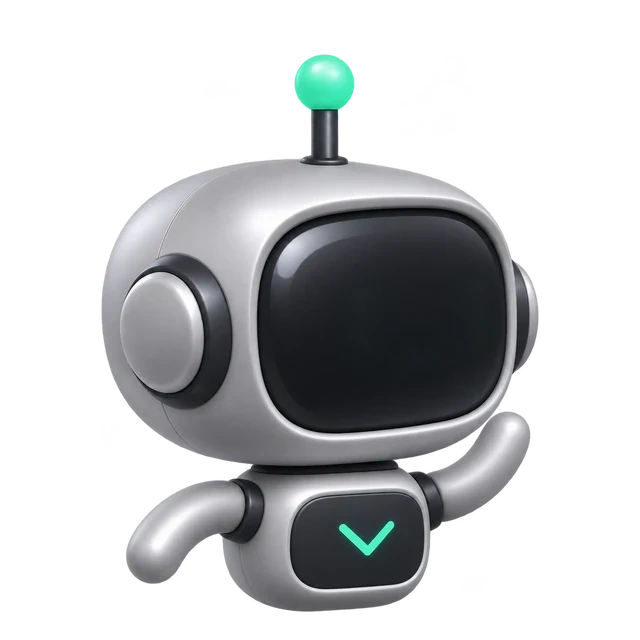
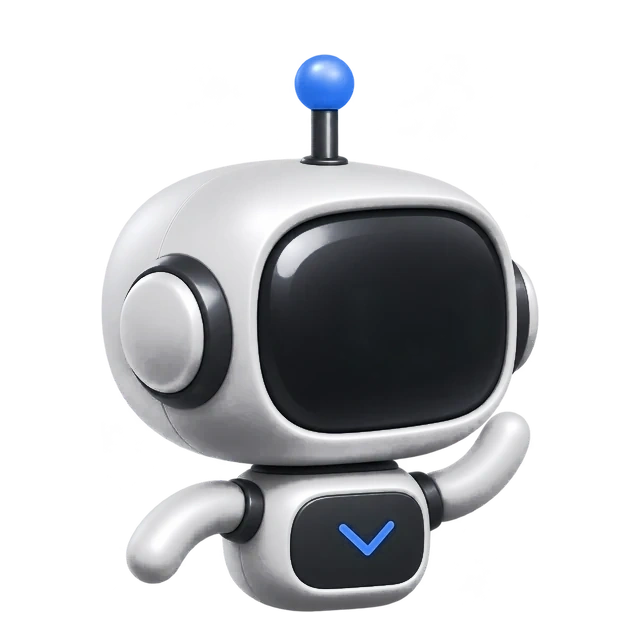
feat(web): add VIP workspace hover menu, draggable tabs, and blue-white xiaoxu mascot (#24)

diff --git a/apps/web/src/vip-workspace-tabs.tsx b/apps/web/src/vip-workspace-tabs.tsx
@@ -1,6 +1,17 @@
-import { CloseOutlined } from "@ant-design/icons";
-import { useEffect, useMemo, useState } from "react";
+import {
+  ApiOutlined,
+  AppstoreOutlined,
+  ArrowLeftOutlined,
+  BarChartOutlined,
+  CloseOutlined,
+  DatabaseOutlined,
+  FundProjectionScreenOutlined,
+  InboxOutlined,
+} from "@ant-design/icons";
+import { Dropdown, type MenuProps } from "antd";
+import { type ReactNode, useEffect, useMemo, useState } from "react";
 import { Link, useLocation, useNavigate } from "react-router-dom";
+import { useCan } from "./shared";
 
 export interface VipWorkspaceTab {
   key: string;
@@ -11,13 +22,45 @@ export interface VipWorkspaceTab {
 const VIP_WORKSPACE_ROUTES: ReadonlyArray<{
   prefix: string;
   label: string;
+  permission: string;
+  icon: ReactNode;
 }> = [
-  { prefix: "/analytics/compass", label: "经营分析" },
-  { prefix: "/analytics/competitors", label: "竞品分析" },
-  { prefix: "/style-selections", label: "选款登记" },
-  { prefix: "/products", label: "商品档案" },
-  { prefix: "/operations/vip/inventory", label: "库存明细" },
-  { prefix: "/operations/vip/integration", label: "唯品会接入" },
+  {
+    prefix: "/analytics/compass",
+    label: "经营分析",
+    permission: "analytics.read",
+    icon: <BarChartOutlined />,
+  },
+  {
+    prefix: "/style-selections",
+    label: "选款登记",
+    permission: "selection.read",
+    icon: <DatabaseOutlined />,
+  },
+  {
+    prefix: "/products",
+    label: "商品档案",
+    permission: "product.read",
+    icon: <AppstoreOutlined />,
+  },
+  {
+    prefix: "/analytics/competitors",
+    label: "竞品分析",
+    permission: "analytics.read",
+    icon: <FundProjectionScreenOutlined />,
+  },
+  {
+    prefix: "/operations/vip/inventory",
+    label: "库存明细",
+    permission: "inventory.read",
+    icon: <InboxOutlined />,
+  },
+  {
+    prefix: "/operations/vip/integration",
+    label: "唯品会接入",
+    permission: "vip.settings",
+    icon: <ApiOutlined />,
+  },
 ];
 
 /** Resolve a pathname to its canonical VIP workspace tab metadata. */
@@ -122,25 +165,96 @@ export function useVipWorkspaceTabs(userId?: number | string) {
     }
   };
 
+  const reorderTabs = (fromKey: string, toKey: string) => {
+    if (fromKey === toKey) return;
+    setTabs((prev) => {
+      const fromIdx = prev.findIndex((tab) => tab.key === fromKey);
+      const toIdx = prev.findIndex((tab) => tab.key === toKey);
+      if (fromIdx === -1 || toIdx === -1 || fromIdx === toIdx) return prev;
+      const next = [...prev];
+      const [moved] = next.splice(fromIdx, 1);
+      next.splice(toIdx, 0, moved);
+      saveStoredTabs(storageKey, next);
+      return next;
+    });
+  };
+
   return {
     tabs,
     activeTabKey: activeRoute?.key,
     closeTab,
+    reorderTabs,
   };
+}
+
+/** Render the 唯品会工作区 link with a hover dropdown of permitted sub-module entries. */
+export function VipWorkspaceRootDropdown({
+  activeTabKey,
+}: {
+  activeTabKey?: string;
+}) {
+  const analytics = useCan("analytics.read");
+  const selection = useCan("selection.read");
+  const products = useCan("product.read");
+  const inventory = useCan("inventory.read");
+  const vipSettings = useCan("vip.settings");
+
+  const permissions: Record<string, boolean> = {
+    "analytics.read": analytics,
+    "selection.read": selection,
+    "product.read": products,
+    "inventory.read": inventory,
+    "vip.settings": vipSettings,
+  };
+
+  const menuItems: MenuProps["items"] = VIP_WORKSPACE_ROUTES.filter(
+    (route) => permissions[route.permission]
+  ).map((route) => ({
+    key: route.prefix,
+    icon: route.icon,
+    label: <Link to={route.prefix}>{route.label}</Link>,
+  }));
+
+  const rootLink = (
+    <Link to="/operations?platform=vip" className="vip-workspace-root-link">
+      <ArrowLeftOutlined /> 唯品会工作区
+    </Link>
+  );
+
+  if (!menuItems.length) return rootLink;
+
+  return (
+    <Dropdown
+      menu={{
+        items: menuItems,
+        selectedKeys: activeTabKey ? [activeTabKey] : [],
+      }}
+      trigger={["hover"]}
+      placement="bottomLeft"
+      overlayClassName="vip-workspace-root-dropdown"
+    >
+      {rootLink}
+    </Dropdown>
+  );
 }
 
 interface VipWorkspaceTabBarProps {
   tabs: VipWorkspaceTab[];
   activeTabKey?: string;
   onCloseTab: (key: string) => void;
+  onReorderTabs: (fromKey: string, toKey: string) => void;
 }
 
-/** Render switchable, closeable tabs for opened VIP workspace sub-pages. */
+/** Render switchable, closeable, drag-reorderable tabs for opened VIP workspace sub-pages. */
 export function VipWorkspaceTabBar({
   tabs,
   activeTabKey,
   onCloseTab,
+  onReorderTabs,
 }: VipWorkspaceTabBarProps) {
+  const [draggingKey, setDraggingKey] = useState<string | null>(null);
+  const [dragOverKey, setDragOverKey] = useState<string | null>(null);
+
   if (!tabs.length) return null;
 
   return (
@@ -151,13 +265,43 @@ export function VipWorkspaceTabBar({
     >
       {tabs.map((tab) => {
         const isActive = tab.key === activeTabKey;
+        const isDragging = tab.key === draggingKey;
+        const isDragOver = tab.key === dragOverKey && draggingKey !== tab.key;
         return (
           <div
             key={tab.key}
-            className={`vip-workspace-tab${isActive ? " is-active" : ""}`}
+            draggable
+            onDragStart={(e) => {
+              e.dataTransfer.effectAllowed = "move";
+              e.dataTransfer.setData("text/plain", tab.key);
+              setDraggingKey(tab.key);
+            }}
+            onDragOver={(e) => {
+              e.preventDefault();
+              e.dataTransfer.dropEffect = "move";
+              if (dragOverKey !== tab.key) setDragOverKey(tab.key);
+            }}
+            onDrop={(e) => {
+              e.preventDefault();
+              const fromKey =
+                draggingKey || e.dataTransfer.getData("text/plain");
+              if (fromKey && fromKey !== tab.key) {
+                onReorderTabs(fromKey, tab.key);
+              }
+              setDraggingKey(null);
+              setDragOverKey(null);
+            }}
+            onDragEnd={() => {
+              setDraggingKey(null);
+              setDragOverKey(null);
+            }}
+            className={`vip-workspace-tab${isActive ? " is-active" : ""}${
+              isDragging ? " is-dragging" : ""
+            }${isDragOver ? " is-drag-over" : ""}`}
           >
             <Link
               to={tab.href}
+              draggable={false}
               role="tab"
               aria-selected={isActive}
               aria-current={isActive ? "page" : undefined}

diff --git a/tests/e2e/operations-navigation.spec.ts b/tests/e2e/operations-navigation.spec.ts
@@ -113,14 +113,28 @@ test("唯品会工作区子页面同窗打开并支持顶部 TAB 切换与关闭
   await expect(tablist.getByRole("tab", { name: "商品档案" })).toHaveAttribute("aria-selected", "false");
   await expect(tablist.getByRole("tab", { name: "经营分析" })).toHaveAttribute("aria-selected", "true");
 
+  // 鼠标悬停「唯品会工作区」显示子版块下拉菜单，可直达其他子版块
+  await page.locator(".topbar").getByRole("link", { name: /唯品会工作区/ }).hover();
+  await expect(page.locator(".vip-workspace-root-dropdown").getByRole("link", { name: "选款登记" })).toBeVisible();
+  await page.locator(".vip-workspace-root-dropdown").getByRole("link", { name: "选款登记" }).click();
+  await expect(page).toHaveURL(/\/style-selections$/);
+
+  // 拖动调整 TAB 顺序
+  const selectionTab = tablist.locator(".vip-workspace-tab", { hasText: "选款登记" });
+  const productsTab = tablist.locator(".vip-workspace-tab", { hasText: "商品档案" });
+  await selectionTab.dragTo(productsTab);
+  const tabTexts = await tablist.getByRole("tab").allTextContents();
+  expect(tabTexts.indexOf("选款登记")).toBeLessThan(tabTexts.indexOf("商品档案"));
+
   await tablist.getByRole("tab", { name: "商品档案" }).click();
   await expect(page).toHaveURL(/\/products$/);
   await expect(tablist.getByRole("tab", { name: "商品档案" })).toHaveAttribute("aria-selected", "true");
 
   await tablist.getByRole("button", { name: "关闭商品档案" }).click();
-  await expect(page).toHaveURL(/\/analytics\/compass$/);
+  await expect(page).toHaveURL(/\/(analytics\/compass|style-selections)$/);
   await expect(tablist.getByRole("tab", { name: "商品档案" })).toHaveCount(0);
 
+  await tablist.getByRole("button", { name: "关闭选款登记" }).click();
   await tablist.getByRole("button", { name: "关闭经营分析" }).click();
   await expect(page).toHaveURL(/\/operations\?platform=vip$/);
 });

diff --git a/apps/web/src/main.tsx b/apps/web/src/main.tsx
@@ -4,6 +4,7 @@ import { FloatingPanels } from "./floating-panels";
 import {
   resolveVipWorkspaceRoute,
   useVipWorkspaceTabs,
+  VipWorkspaceRootDropdown,
   VipWorkspaceTabBar,
 } from "./vip-workspace-tabs";
 import React, { useState } from "react";
@@ -288,6 +289,7 @@ function Workspace({ user }: { user: Row }) {
     tabs: vipTabs,
     activeTabKey: activeVipTabKey,
     closeTab: closeVipTab,
+    reorderTabs: reorderVipTabs,
   } = useVipWorkspaceTabs(user?.id);
   const menu = visibleItems.map((item) => {
     const children = item.children?.map((child) => ({
@@ -394,14 +396,13 @@ function Workspace({ user }: { user: Row }) {
             >
               {routeBack ? <div className="workspace-path"><Link to={routeBack.href} aria-label={routeBack.label}><ArrowLeftOutlined/> {routeBack.label}</Link></div> : vipWorkspaceRoute ? (
                 <div className="workspace-path">
-                  <Link to="/operations?platform=vip">
-                    <ArrowLeftOutlined /> 唯品会工作区
-                  </Link>
+                  <VipWorkspaceRootDropdown activeTabKey={activeVipTabKey} />
                   <span aria-hidden="true">/</span>
                   <VipWorkspaceTabBar
                     tabs={vipTabs}
                     activeTabKey={activeVipTabKey}
                     onCloseTab={closeVipTab}
+                    onReorderTabs={reorderVipTabs}
                   />
                 </div>
               ) : null}

diff --git a/apps/web/src/sidebar-assistant.css b/apps/web/src/sidebar-assistant.css
@@ -101,11 +101,11 @@
   width: 100%;
   height: 100%;
   border-radius: 999px;
-  background: #43eec2;
+  background: #4f8cff;
   box-shadow:
-    0 0 0.6px #43eec2,
-    0 0 2px rgb(67 238 194 / 75%),
-    0 0 4px rgb(67 238 194 / 35%);
+    0 0 0.6px #4f8cff,
+    0 0 2px rgb(79 140 255 / 75%),
+    0 0 4px rgb(79 140 255 / 35%);
   transform-origin: 50% 50%;
   animation: companion-blink 5.4s ease-in-out infinite;
 }
@@ -171,14 +171,14 @@
     var(--companion-mouth-x, 0px),
     var(--companion-mouth-y, 0px)
   );
-  filter: drop-shadow(0 0 0.6px #43eec2)
-    drop-shadow(0 0 2px rgb(67 238 194 / 70%))
-    drop-shadow(0 0 4px rgb(67 238 194 / 35%));
+  filter: drop-shadow(0 0 0.6px #4f8cff)
+    drop-shadow(0 0 2px rgb(79 140 255 / 70%))
+    drop-shadow(0 0 4px rgb(79 140 255 / 35%));
 }
 .companion-mouth-smile,
 .companion-mouth-open {
   fill: none;
-  stroke: #43eec2;
+  stroke: #4f8cff;
   stroke-linecap: round;
   stroke-linejoin: round;
 }

diff --git a/apps/web/src/style.css b/apps/web/src/style.css
@@ -209,7 +209,19 @@ a {
   background: transparent;
   color: var(--app-subtle);
   flex-shrink: 0;
-  transition: background-color 0.15s ease, border-color 0.15s ease, color 0.15s ease;
+  cursor: grab;
+  user-select: none;
+  transition: background-color 0.15s ease, border-color 0.15s ease, color 0.15s ease, opacity 0.15s ease;
+}
+.vip-workspace-tab:active {
+  cursor: grabbing;
+}
+.vip-workspace-tab.is-dragging {
+  opacity: 0.45;
+}
+.vip-workspace-tab.is-drag-over {
+  border-color: #1677ff;
+  box-shadow: inset 2px 0 0 #1677ff;
 }
 .vip-workspace-tab:hover {
   background: var(--app-surface-2, #f5f7fa);
